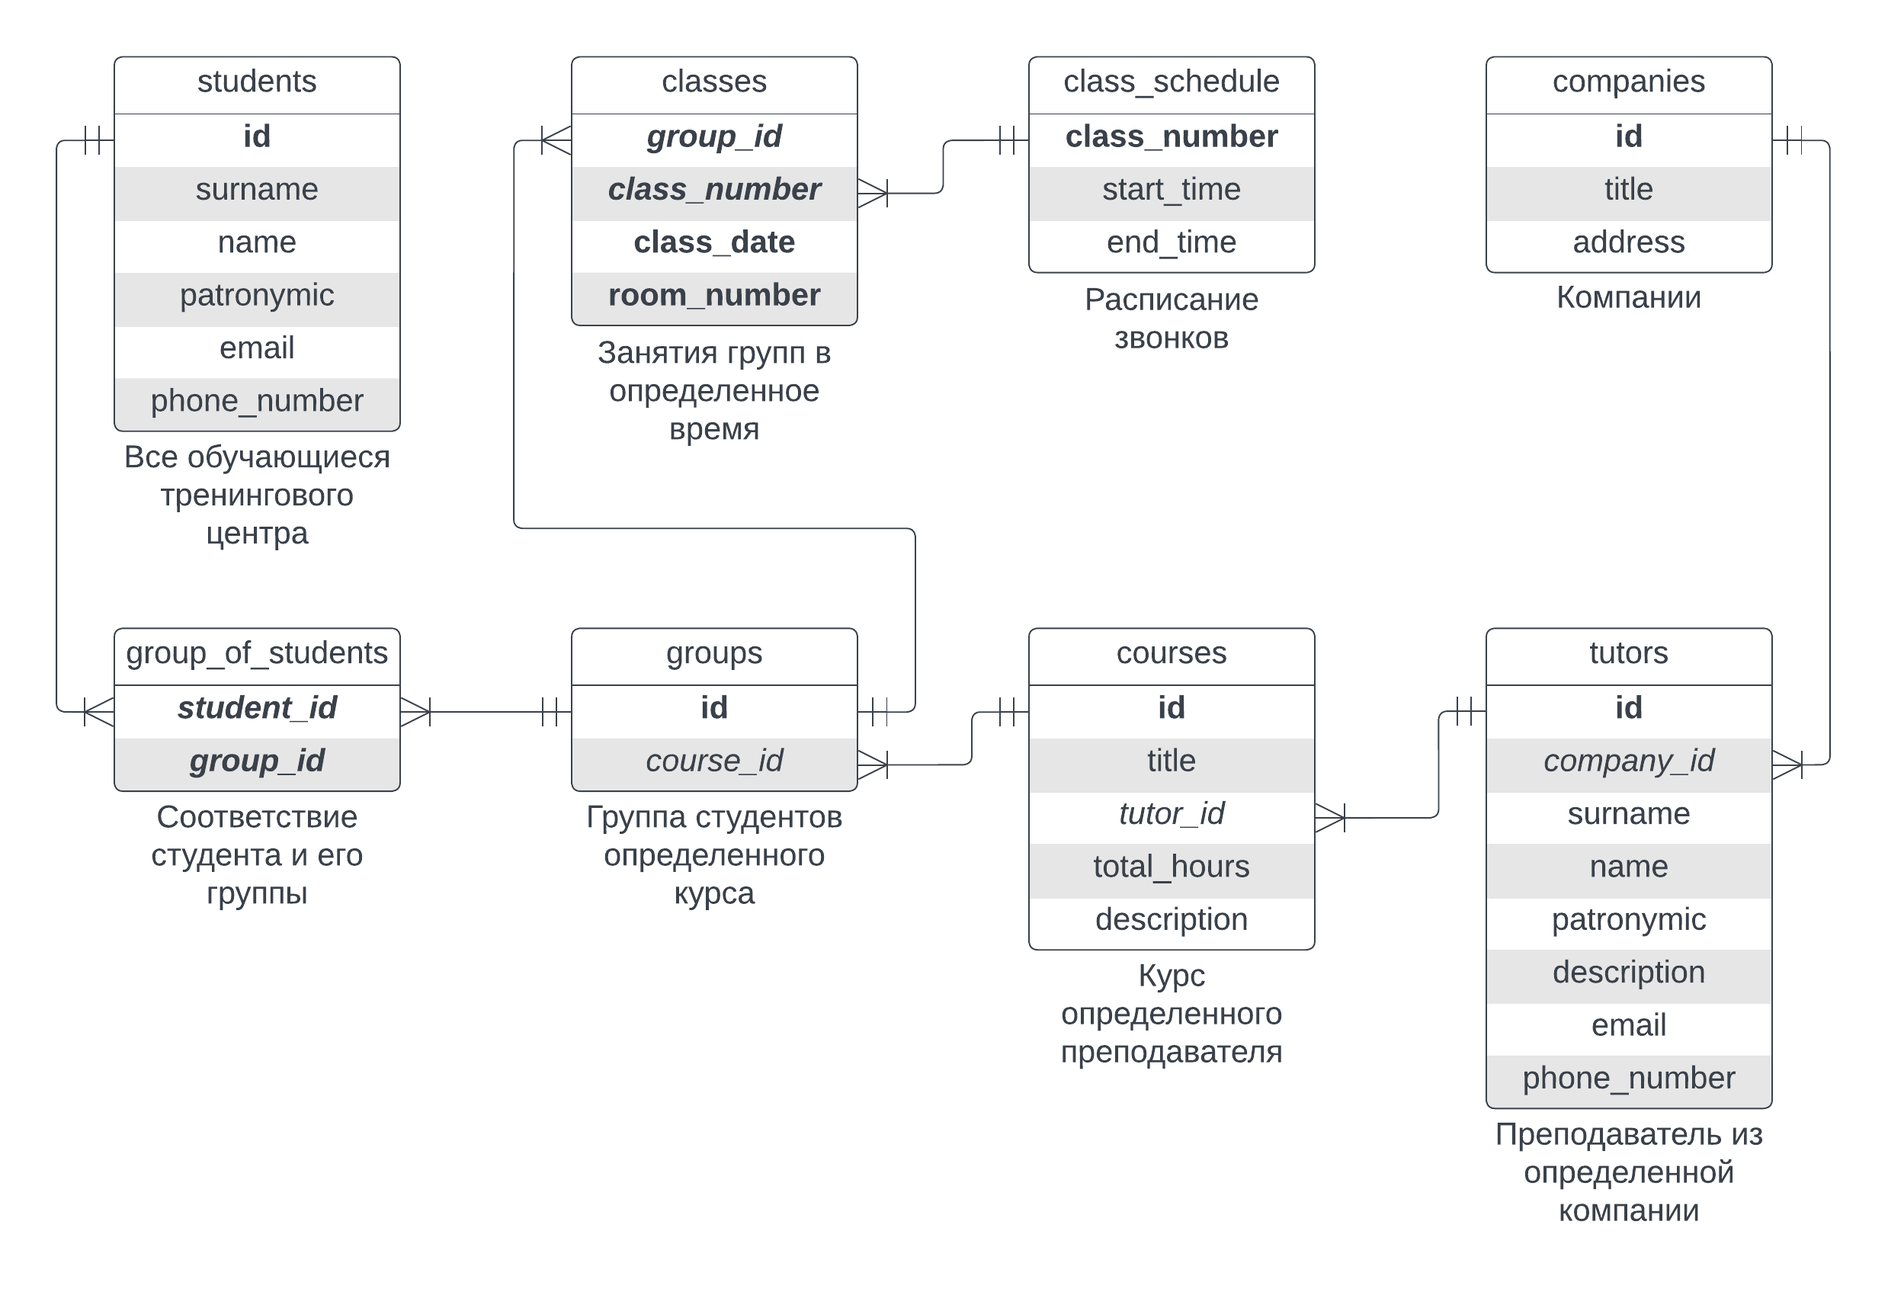
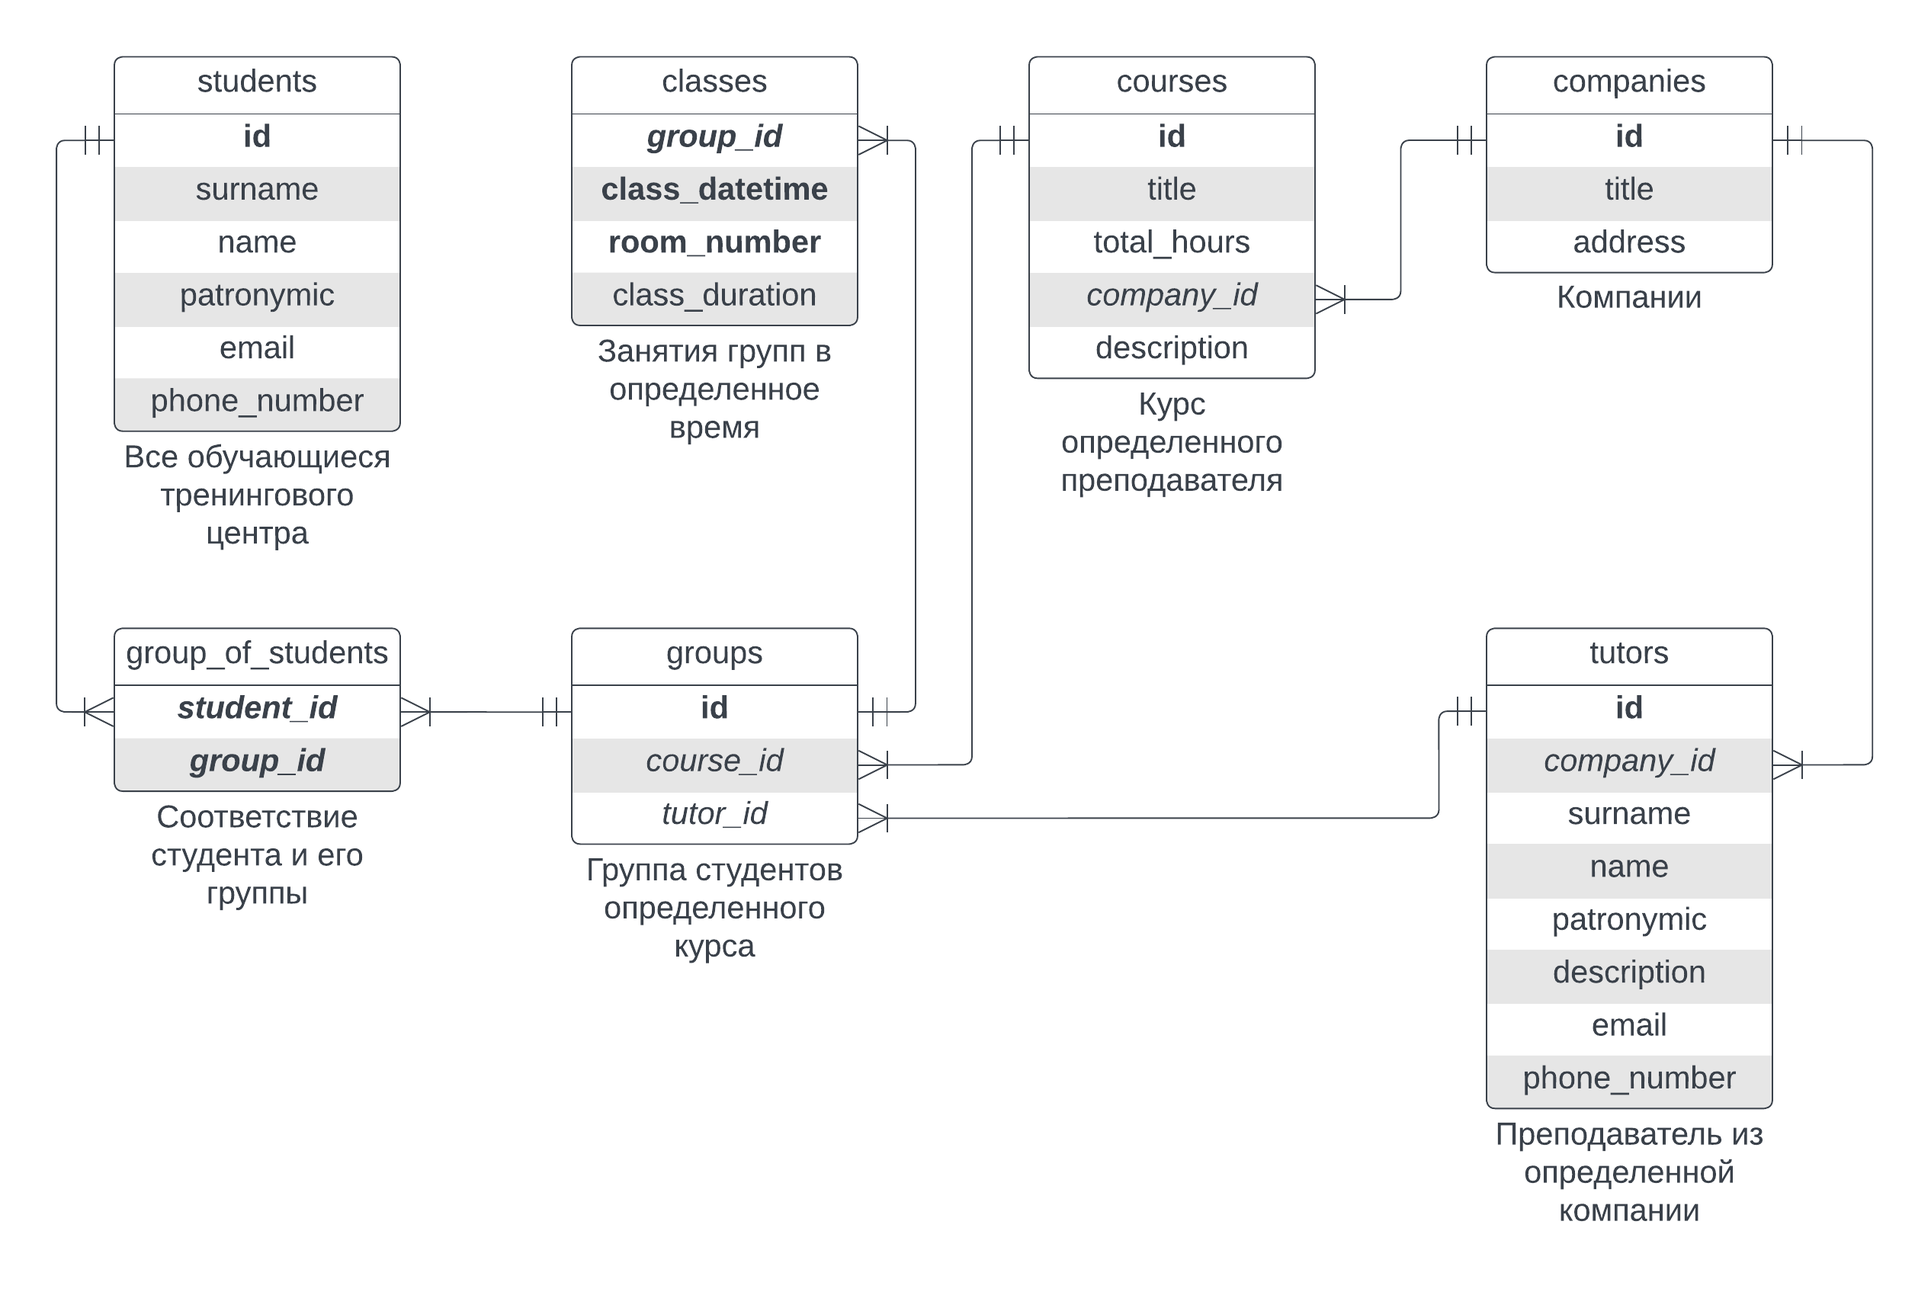
first fix after part 1 beginning
Improved README and updated database schema

diff --git a/README.md b/README.md
@@ -9,58 +9,71 @@
 ![Alt text](docs/navigation.png)
 
 ### Главная страница
-- Ссылки на списки всех студентов, преподавателей, курсов и компаний
+- Ссылки на списки всех студентов, преподавателей, курсов, компаний и групп студентов
 - Ссылка на генератор расписания для студента/преподавателя
 - Ссылка на страницу для редактирования расписания
-- Адрес центра, "расписание звонков"
+- Адрес центра (все занятия проходят в одном здании) 
+- P.S. "Расписание звонков" из начальной версии проекта было удалено, занятия назначаются на определенный datetime
 
 ### Страница со списком преподавателей
 - Нажав на ФИО, пользователь попадает на персональную страницу преподавателя
 - Сортировка по ФИО или названию компании-работодателя, поиск по ФИО
 - Нажав на кнопку "Добавить", пользователь попадает на шаблон страницы преподавателя, который должен заполнить для добавления в базу 
+- Для каждого преподавателя в списке указываются ФИО и название компании
 
 ### Страница со списком студентов
 - Нажав на ФИО, пользователь попадает на персональную страницу студента
 - Поиск по ФИО
 - Нажав на кнопку "Добавить", пользователь попадает на шаблон страницы студента, который должен заполнить для добавления в базу 
+- Для каждого студента в списке указываются ФИО, номер телефона, электронная почта
 
 ### Страница со списком курсов
 - Нажав на курс, пользователь попадает на страницу курса
 - Сортировка по названию курса или компании
 - Нажав на кнопку "Добавить", пользователь попадает на шаблон страницы курса, который должен заполнить для добавления в базу 
+- Для каждого курса в списке указываются названия курса и компании
 
 ### Страница со списком компаний
 - Нажав на компанию, пользователь попадает на страницу компании
 - Нажав на кнопку "Добавить", пользователь попадает на шаблон страницы компании, который должен заполнить для добавления в базу 
+- Для каждой компании в списке указываются название 
 
 ### Страница со списком групп
+- Группа - несколько студентов, которые начали одновременно слушать определенный курс у определенного преподавателя; у группы есть сгенерированный номер (в базе данных поле id имеет тип serial)
 - Нажав на номер группы, пользователь попадает на страницу группы со списком студентов в ней
 - Нажав на кнопку "Добавить", пользователь попадает на шаблон страницы группы, который должен заполнить для добавления в базу 
+- Для каждой группы в списке указываются название курса и преподаватель
 
 ### Страницы для групп
 - Номер группы и список ссылок на студентов этой группы
 - Ссылка на курс, который слушает эта группа
-- Редактирование списка студентов, курса
+- Ссылка на преподавателя, который ведет этот курс у этой группы
+- Редактирование списка студентов, ссылки на читаемый курс, ссылки на читающего преподавателя
+- Кнопка "Удалить группу", которая удаляет группу из базы (каскадно удаляя из расписания все занятия с этой группой)
 
 ### Персональные страницы преподавателей
 - Указаны ФИО, контактные данные, краткая биография
 - Возможность редактирования данных
 - Ссылки на проводимые курсы и компанию-работодателя
+- Кнопка "Удалить преподавателя", которая удаляет преподавателя из базы (каскадно удаляя все группы этого преподавателя)
 
 ### Персональные страницы студентов
 - Указаны ФИО, контактные данные
 - Возможность редактирования данных
 - Ссылки на все курсы, которые слушал/слушает
+- Кнопка "Удалить студента", которая удаляет студента из базы
 
 ### Страницы для курсов
 - Указаны название курса, количество часов, краткое описание
 - Возможность редактирования данных
-- Ссылка на преподавателя, который читает курс
+- Ссылка на преподавателей, которые читают этот курс
+- Кнопка "Удалить курс", которая удаляет курс из базы (каскадно удаляя все группы по этому курсу)
 
 ### Страницы для компаний
 - Указаны название компании и адрес
 - Возможность редактирования данных
 - Ссылки на курсы компаниии
+- Кнопка "Удалить компанию", которая удаляет компанию из базы (каскадно удаляя все курсы и преподавателей компании)
 
 ### Генератор расписания
 - Выбор режима: расписание для студента/преподавателя
@@ -69,11 +82,15 @@
 ### Страница с готовым расписанием
 - Просмотр сгенерированного расписания
 - Кнопка для сохранения расписания на стороне клиента
+- Поля в расписании
+    - В случае студента - сгруппированные по дням ячейки с занятиями, в ячейках указаны номер группы, название курса, ФИО преподавателя, номер аудитории, время начала занятия, продолжительность занятия
+    - В случае преподавателя - сгруппированные по дням ячейки с занятиями, в которых указаны аналогичная информация, кроме ФИО преподавателя
 
 ### Редактор расписания
 - Выбор режима редактирования: добавление занятия, изменение существующего и удаление
-- Поля для заполнения данных о занятии, которое необходимо добавить/изменить/удалить
-- В случае редактирования уже существующего занятия поля для новых данных
+- Поля для заполнения данных о занятии, которое необходимо добавить/изменить/удалить (поля из таблицы занятий: номер группы, дата и время, номер аудитории, продолжительность занятия)
+- В случае редактирования уже существующего занятия поля для новых данных - дата и время, номер аудитории, продолжительность занятия
+- Для согласованности предполагается триггер при добавлении/изменении занятий (например, чтобы в один момент времени аудиторию не смогли занять две разные группы)
 
 ## Схема базы данных
 ![Alt text](docs/schema.png)
@@ -92,7 +109,8 @@
 - Перейти на главную
 - Перейти на страницу с редактором расписания, нажав на кнопку "Изменить расписание"
 - Выбрать режим работы: "Добавить занятие"
-- Заполнить данные о занятии: номер группы, дату проведения занятия, номер "пары" в соответствии с расписанием звонков, номер аудитории
+- Заполнить данные о занятии: номер группы, дату и время проведения занятия, номер аудитории, продолжительность занятия
+    - При некорректных данных выводится сообщение об ошибке (например, если аудитория уже занята)
 - Подтвердить изменения
 
 ### Редактирование занятия в расписании
@@ -100,7 +118,8 @@
 - Перейти на страницу с редактором расписания, нажав на кнопку "Изменить расписание"
 - Выбрать режим работы: "Изменить занятие"
 - Заполнить данные о занятии, которое необходимо отредактировать
-- Заполнить новые данные о занятии
+- Заполнить новые данные о занятии (аналогичные данные, кроме номера группы)
+    - При некорректных новых или старых данных выводится сообщение об ошибке (данные неверны/такого занятия не существует)
 - Подтвердить изменения
 
 ### Удаление занятия из расписания
@@ -108,6 +127,7 @@
 - Перейти на страницу с редактором расписания, нажав на кнопку "Изменить расписание"
 - Выбрать режим работы: "Удалить занятие"
 - Заполнить данные о занятии, которое необходимо удалить
+    - При некорректных данных выводится сообщение об ошибке (такого занятия не существует)
 - Подтвердить удаление
 
 ### Редактирование информации о студенте/преподавателе/курсе/компании/группе
